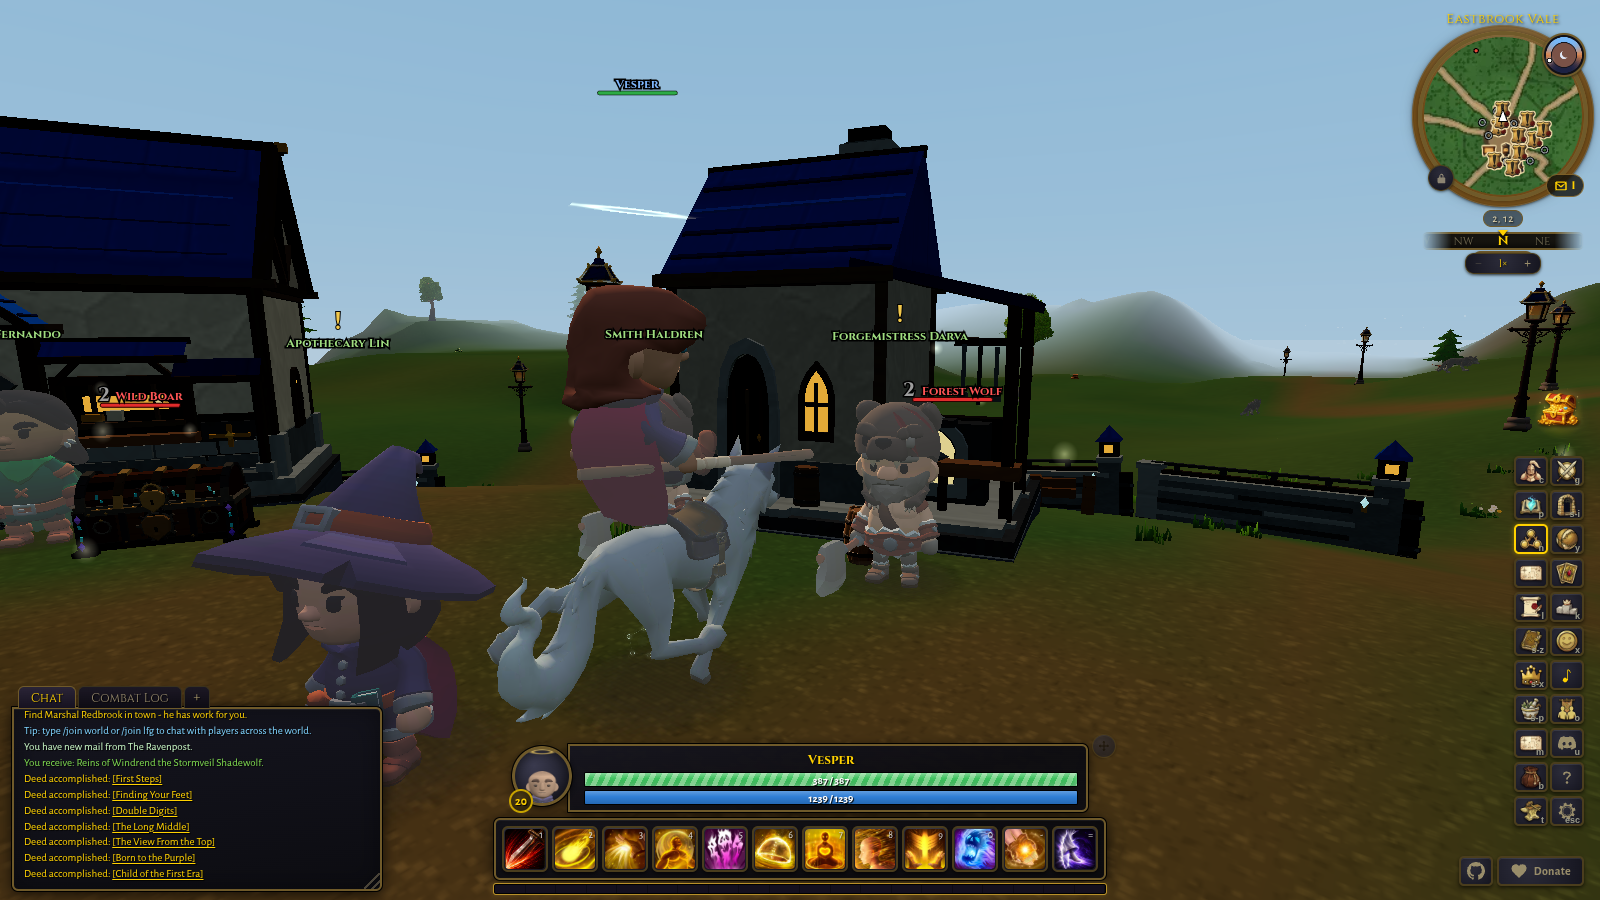
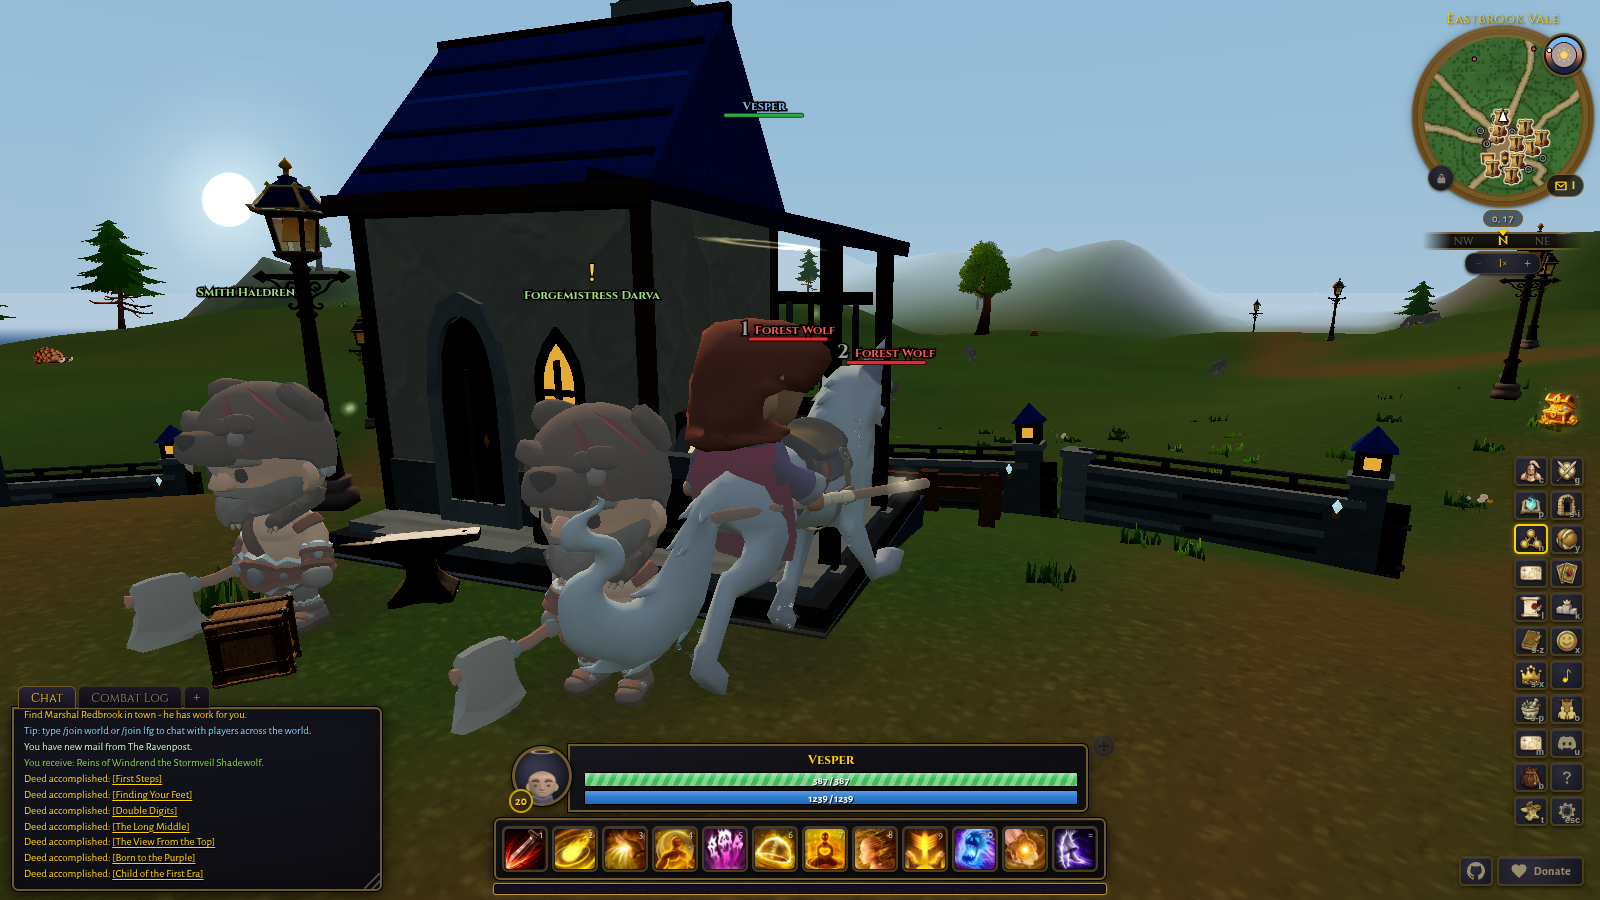
fix(render): size up mounts and fix hound facing plus panther/wolf seats
Ashfang the Cinderhide Hound was still visibly walking sideways after the
earlier facing fix: the yaw copied from the Veil-Wraith Courser assumed a
flat-180 rig, but the hound's raw mesh faces along X like the Nightprowl
Panther, not Z. Corrected the yaw to -PI/2 and gave the gait baker the same
bodyAxis: 'x' override the panther already needed, then rebaked the GLB and
added a regression test pinning the front-left foot's walk-cycle displacement
as X-dominant.

Nightprowl Panther and Windrend Shadewolf riders were floating clear of their
saddles. Re-measured each rig's own spine-bone world position (calibrated
against the boar's already-correct seat margin) and walked the seat height
down further where the spine-bone estimate still floated on live capture,
re-verifying each step against a close low side-on screenshot rather than the
math alone.

All five mounts also get a flat +20% model height increase per user request;
every seat/seatFwd offset is scaled by the same factor so the just-fixed
saddle positions hold at the new size. Recaptured all 25 PR screenshots at
the new scale and fixes.

diff --git a/src/render/mount_visuals.ts b/src/render/mount_visuals.ts
@@ -111,7 +111,9 @@ export const MOUNT_VISUAL_SPECS: Record<MountKey, MountVisualSpec> = {
   // Run clips from its own Walk animation (see manifest.ts). 'wisp': its coat
   // shifting between holy radiance and shadow mist is otherwise flavor text
   // with nothing behind it in-world, so it earns the ambient particle trail.
-  veil_wraith_courser: spec('mount_veil_wraith_courser', 2.6, true, undefined, 0.1, 'wisp'),
+  // seat/seatFwd scaled x1.2 with the +20% model size bump (manifest.ts
+  // height 3.9 -> 4.68) so the saddle position holds at the new scale.
+  veil_wraith_courser: spec('mount_veil_wraith_courser', 3.12, true, undefined, 0.12, 'wisp'),
   // Grimtusk the Ironhide Boar: a stocky, low-slung quadruped, so the seat
   // sits well under the taller mounts above. Its actual saddle prop rides the
   // back over the haunches, well behind the model origin (the boar's head and
@@ -127,14 +129,18 @@ export const MOUNT_VISUAL_SPECS: Record<MountKey, MountVisualSpec> = {
   // (buckle line under the seat, tail and hind legs still visible behind).
   // 'dust': a heavy charging boar kicks up hoof dust the way the snail leaves
   // slime and the hover cycle streams exhaust.
-  grimtusk_boar: spec('mount_grimtusk_boar', 1.9, true, undefined, -0.85, 'dust'),
+  // seat/seatFwd scaled x1.2 with the +20% model size bump (manifest.ts
+  // height 2.6 -> 3.12) so the saddle position holds at the new scale.
+  grimtusk_boar: spec('mount_grimtusk_boar', 2.28, true, undefined, -1.02, 'dust'),
   // Ashfang the Cinderhide Hound: a warlock-flavored demonic war-mount (see
   // content/classes.ts, the Cinderhide ability), taller-standing than the
   // boar with the harness/tack riding centered over its shoulders rather
   // than set far back. 'ember': its obsidian hide is fractured with glowing
   // cracks of cooling slag, so it trails rising embers the way the boar
   // kicks up ground dust and the courser streams holy/shadow wisps.
-  cinderhide_hound: spec('mount_cinderhide_hound', 2.35, true, undefined, -0.35, 'ember'),
+  // seat/seatFwd scaled x1.2 with the +20% model size bump (manifest.ts
+  // height 3.1 -> 3.72) so the saddle position holds at the new scale.
+  cinderhide_hound: spec('mount_cinderhide_hound', 2.82, true, undefined, -0.42, 'ember'),
   // Nightprowl the Duskveil Panther: a rogue-flavored shadow panther (see
   // content/classes.ts, the Smokestep ability that grants Duskveil stealth),
   // lower-slung and lither than the hound, with a real 3D saddle prop (not
@@ -142,7 +148,15 @@ export const MOUNT_VISUAL_SPECS: Record<MountKey, MountVisualSpec> = {
   // sits over the shoulders. 'shade': it trails wisps of the same shadow it
   // melts into on Smokestep, the way the hound trails embers off its cracked
   // hide and the courser streams holy/shadow wisps off its coat.
-  nightprowl_panther: spec('mount_nightprowl_panther', 2.0, true, undefined, -0.3, 'shade'),
+  // seat was 2.0, well above the actual spine/back height (measured off the
+  // live rig's own spine-bone world position, calibrated against the boar's
+  // already-confirmed seat margin above its own spine bone): the rider
+  // floated visibly clear of the saddle. 1.59 (at the old 2.3 model height)
+  // landed the rider on the back, confirmed with a close low side-on capture
+  // matching the boar's own reference framing, not assumed from the math
+  // alone. Scaled to 1.908 with the +20% model size bump (manifest.ts height
+  // 2.3 -> 2.76) so that fix holds at the new scale.
+  nightprowl_panther: spec('mount_nightprowl_panther', 1.908, true, undefined, -0.36, 'shade'),
   // Windrend the Stormveil Shadewolf: a shaman-flavored spectral wolf (see
   // content/classes.ts, the ghost_wolf ability, in-game name "Shadewolf"),
   // leggier and more upright than the panther's low prowl, saddle riding
@@ -151,12 +165,21 @@ export const MOUNT_VISUAL_SPECS: Record<MountKey, MountVisualSpec> = {
   // pinned, absolute camera angles, not a screenshot read alone). 'frost':
   // its translucent hide sheds a cold spectral mist that spreads outward as
   // it drifts, distinct from every other mount's ambient trail.
+  // seat was 2.15, well clear of the actual back height (same live spine-bone
+  // measurement + close low side-on re-verification as the panther above).
+  // The spine-bone-derived first guess (1.58) still floated visibly on a
+  // live capture; the wolf's back sits lower relative to its spine bones
+  // than the boar's calibration predicted, so it was walked down further and
+  // re-verified against the same close low side-on framing until the rider's
+  // legs actually overlapped the saddle: 1.22 (at the old 2.4 model height).
+  // Scaled to 1.464 with the +20% model size bump (manifest.ts height
+  // 2.4 -> 2.88) so that fix holds at the new scale.
   windrend_stormveil_shadewolf: spec(
     'mount_windrend_stormveil_shadewolf',
-    2.15,
+    1.464,
     true,
     undefined,
-    -0.15,
+    -0.18,
     'frost',
   ),
 };

diff --git a/tests/cinderhide_hound_gait.test.ts b/tests/cinderhide_hound_gait.test.ts
@@ -1,0 +1,111 @@
+// Regression pin: the Cinderhide Hound's yaw: Math.PI facing fix (copied from
+// the Veil-Wraith Courser's genuinely flat-180 rig) was itself the bug. A
+// live orientation check (mount_visuals.test.ts's yaw pin covers that half)
+// found the hound's raw mesh faces along X, not Z, exactly like the Nightprowl
+// Panther: scripts/bake_mount_gaits.mjs needs bodyAxis: 'x' for this rig too,
+// or the leg-swing math (which rotates about world X, the axis that moves a
+// Z-forward foot fore-aft but only ever moves an X-forward foot sideways)
+// swings the legs left-right instead of forward-back. Verified directly off
+// the baked animation data (not a screenshot), the same method
+// nightprowl_panther_gait.test.ts uses: the front-left foot's displacement
+// across the Walk cycle must be dominant on X, matching the rig's own real
+// fore-aft axis.
+import { NodeIO } from '@gltf-transform/core';
+import { ALL_EXTENSIONS } from '@gltf-transform/extensions';
+import { MeshoptDecoder } from 'meshoptimizer';
+import { describe, expect, it } from 'vitest';
+
+const qmul = (a: number[], b: number[]): number[] => [
+  a[3] * b[0] + a[0] * b[3] + a[1] * b[2] - a[2] * b[1],
+  a[3] * b[1] - a[0] * b[2] + a[1] * b[3] + a[2] * b[0],
+  a[3] * b[2] + a[0] * b[1] - a[1] * b[0] + a[2] * b[3],
+  a[3] * b[3] - a[0] * b[0] - a[1] * b[1] - a[2] * b[2],
+];
+const rotv = (q: number[], v: number[]): number[] => {
+  const [x, y, z, w] = q;
+  const uvx = y * v[2] - z * v[1];
+  const uvy = z * v[0] - x * v[2];
+  const uvz = x * v[1] - y * v[0];
+  const uuvx = y * uvz - z * uvy;
+  const uuvy = z * uvx - x * uvz;
+  const uuvz = x * uvy - y * uvx;
+  return [v[0] + 2 * (w * uvx + uuvx), v[1] + 2 * (w * uvy + uuvy), v[2] + 2 * (w * uvz + uuvz)];
+};
+
+describe('cinderhide_hound gait direction (facing-fix follow-up)', () => {
+  it('swings the front-left foot fore-aft along X, not sideways along Z', async () => {
+    await MeshoptDecoder.ready;
+    const io = new NodeIO()
+      .registerExtensions(ALL_EXTENSIONS)
+      .registerDependencies({ 'meshopt.decoder': MeshoptDecoder });
+    const doc = await io.read('public/models/mounts/cinderhide_hound.glb');
+    const root = doc.getRoot();
+    const nodes = new Map(root.listNodes().map((n) => [n.getName(), n] as const));
+    const parentOf = new Map<
+      ReturnType<typeof root.listNodes>[number],
+      ReturnType<typeof root.listNodes>[number]
+    >();
+    for (const n of root.listNodes()) for (const c of n.listChildren()) parentOf.set(c, n);
+
+    const worldRotAt = (
+      node: ReturnType<typeof root.listNodes>[number],
+      overrideRot?: number[],
+    ) => {
+      let q = [0, 0, 0, 1];
+      for (let n: typeof node | undefined = node; n; n = parentOf.get(n)) {
+        const r = n === node && overrideRot ? overrideRot : [...n.getRotation()];
+        q = qmul(r, q);
+      }
+      return q;
+    };
+    const worldPos = (node: ReturnType<typeof root.listNodes>[number]): number[] => {
+      const t = [...node.getTranslation()];
+      const parent = parentOf.get(node);
+      if (!parent) return t;
+      const pp = worldPos(parent);
+      const r = rotv(worldRotAt(parent), t);
+      return [pp[0] + r[0], pp[1] + r[1], pp[2] + r[2]];
+    };
+
+    const bone = nodes.get('tripo::0_Left_Limb_0');
+    expect(bone, 'front-left upper leg bone').toBeDefined();
+    if (!bone) return;
+    const restWorldRot = worldRotAt(bone);
+    const footLocalOffset = rotv(
+      [-restWorldRot[0], -restWorldRot[1], -restWorldRot[2], restWorldRot[3]],
+      [0, -0.15, 0],
+    );
+    const footWorldAt = (animatedLocalRot: number[]) => {
+      const wr = worldRotAt(bone, animatedLocalRot);
+      const off = rotv(wr, footLocalOffset);
+      const p = worldPos(bone);
+      return [p[0] + off[0], p[1] + off[1], p[2] + off[2]];
+    };
+
+    const anim = root.listAnimations().find((a) => a.getName() === 'Walk');
+    expect(anim, 'Walk animation').toBeDefined();
+    const channel = anim
+      ?.listChannels()
+      .find((c) => c.getTargetNode() === bone && c.getTargetPath() === 'rotation');
+    expect(channel, 'front-left leg rotation channel').toBeDefined();
+    const sampler = channel?.getSampler();
+    const times = sampler?.getInput()?.getArray();
+    const rots = sampler?.getOutput()?.getArray();
+    expect(times && rots).toBeTruthy();
+    if (!times || !rots) return;
+    const n = times.length;
+    const getRot = (i: number) => [rots[i * 4], rots[i * 4 + 1], rots[i * 4 + 2], rots[i * 4 + 3]];
+
+    const p0 = footWorldAt(getRot(0));
+    const p1 = footWorldAt(getRot(Math.floor(n / 4)));
+    const d = [p1[0] - p0[0], p1[1] - p0[1], p1[2] - p0[2]];
+
+    expect(Math.abs(d[0]), "X displacement (fore-aft, the rig's real long axis)").toBeGreaterThan(
+      0.02,
+    );
+    expect(
+      Math.abs(d[0]),
+      'X displacement must dominate Z (a sideways swing is the bug this pins)',
+    ).toBeGreaterThan(Math.abs(d[2]) * 3);
+  });
+});

diff --git a/src/render/characters/manifest.ts b/src/render/characters/manifest.ts
@@ -1707,7 +1707,10 @@ export const VISUALS: Record<string, VisualDef> = {
   // mount stands still instead of visibly walking in place.
   mount_veil_wraith_courser: {
     url: `${MOUNTS_DIR}/veil_wraith_courser.glb`,
-    height: 3.9,
+    // Sized up +20% (was 3.9) with the rest of the PR #3365 catalog: read as
+    // visually undersized next to the player at the old height. mount_visuals.ts
+    // seat/seatFwd scale by the same factor so the saddle position holds.
+    height: 4.68,
     clips: MOUNT_RIGGED,
     // The baked rig rests facing -z, unlike every other mount's native +z
     // (see the fwd: 'z-' override in scripts/render_mount_icons.mjs); yaw
@@ -1739,7 +1742,9 @@ export const VISUALS: Record<string, VisualDef> = {
   // foot-slide as the tradeoff, which reads right for a lumbering charge.
   mount_grimtusk_boar: {
     url: `${MOUNTS_DIR}/grimtusk_boar.glb`,
-    height: 2.6,
+    // Sized up +20% (was 2.6) with the rest of the catalog; mount_visuals.ts
+    // seat/seatFwd scale by the same factor so the saddle position holds.
+    height: 3.12,
     clips: MOUNT_RIGGED_JUMP,
     walkRef: 3.0,
     runRef: 12.6,
@@ -1751,17 +1756,27 @@ export const VISUALS: Record<string, VisualDef> = {
   // runRef is the ridden speed (RUN_SPEED 7 x +80% = 12.6), same choice as
   // the boar and raptor above, so its authored Run cadence plays at 1.0x
   // instead of being sped up to match a perfect foot-plant.
-  // The baked rig rests facing -z, same as the Veil-Wraith Courser above
-  // (see the fwd: 'z-' override in scripts/render_mount_icons.mjs); without
-  // this yaw the hound faced away from the rider and away from the travel
-  // direction, an artifact of the raw Tripo retarget carried over unfixed.
-  // yaw swings it onto the game's +z-forward convention so it walks and
-  // faces the same way as its rider.
+  // yaw was Math.PI (a flat 180, copied from the Courser's fix) until a live
+  // orientation check (comparing the model wrap's actual world-space forward
+  // vector against the real movement delta while running, not a screenshot)
+  // showed it pointing dead OPPOSITE the travel direction: dot product -1.
+  // Math.PI only ever corrects a Z-forward rig's 180-degree flip, but this
+  // rig's own bind pose puts its head at +X from the rear legs with an
+  // essentially zero Z offset (measured the same way the panther's own
+  // bodyAxis finding was), the SAME non-standard axis the panther has, not a
+  // flat-180 case at all. -Math.PI / 2 swings local +X onto the game's
+  // +z-forward convention (the same correction the panther uses, and
+  // verified against the same live orientation check: dot product +1 after
+  // the fix). scripts/bake_mount_gaits.mjs also needs bodyAxis: 'x' for this
+  // rig now, so the Walk/Run leg swing moves fore-aft instead of sideways;
+  // the GLB was re-baked in the same change.
   mount_cinderhide_hound: {
     url: `${MOUNTS_DIR}/cinderhide_hound.glb`,
-    height: 3.1,
+    // Sized up +20% (was 3.1) with the rest of the catalog; mount_visuals.ts
+    // seat/seatFwd scale by the same factor so the saddle position holds.
+    height: 3.72,
     clips: MOUNT_RIGGED_JUMP,
-    yaw: Math.PI,
+    yaw: -Math.PI / 2,
     walkRef: 3.0,
     runRef: 12.6,
     lazyPreload: true,
@@ -1789,7 +1804,9 @@ export const VISUALS: Record<string, VisualDef> = {
   // of travel.
   mount_nightprowl_panther: {
     url: `${MOUNTS_DIR}/nightprowl_panther.glb`,
-    height: 2.3,
+    // Sized up +20% (was 2.3) with the rest of the catalog; mount_visuals.ts
+    // seat/seatFwd scale by the same factor so the saddle position holds.
+    height: 2.76,
     clips: MOUNT_RIGGED_JUMP,
     yaw: -Math.PI / 2,
     walkRef: 3.0,
@@ -1811,7 +1828,9 @@ export const VISUALS: Record<string, VisualDef> = {
   // phase-delayed-tip ripple, the trick the hound introduced).
   mount_windrend_stormveil_shadewolf: {
     url: `${MOUNTS_DIR}/windrend_stormveil_shadewolf.glb`,
-    height: 2.4,
+    // Sized up +20% (was 2.4) with the rest of the catalog; mount_visuals.ts
+    // seat/seatFwd scale by the same factor so the saddle position holds.
+    height: 2.88,
     clips: MOUNT_RIGGED_JUMP,
     walkRef: 3.0,
     runRef: 12.6,

diff --git a/tests/mount_visuals.test.ts b/tests/mount_visuals.test.ts
@@ -178,11 +178,14 @@ describe('procedural bob math', () => {
     // front edge, behind the visible leather panel rather than on it
     // (confirmed live in-client with player.facing pinned and an isolated
     // side capture, not a screenshot alone: #3365's known-issue follow-up).
-    // -0.85 centers the rider on the panel.
+    // -0.85 centers the rider on the panel (at the model's original height).
+    // seat/seatFwd both scale x1.2 with the whole catalog's +20% size bump
+    // (manifest.ts height 2.6 -> 3.12), re-verified against a live close
+    // side-on capture at the new scale, not assumed from the ratio alone.
     const spec = MOUNT_VISUAL_SPECS.grimtusk_boar;
-    expect(spec.seat).toBe(1.9);
-    expect(spec.seatFwd).toBeLessThan(-0.65);
-    expect(spec.seatFwd).toBeGreaterThan(-1.05);
+    expect(spec.seat).toBe(2.28);
+    expect(spec.seatFwd).toBeLessThan(-0.78);
+    expect(spec.seatFwd).toBeGreaterThan(-1.26);
   });
 
   it('the snail glides flat while moving, but breathes gently at idle (#jump-idle-pass)', () => {
@@ -215,14 +218,22 @@ describe('procedural bob math', () => {
   });
 
   it('the hound faces the same way as its rider (#facing-fix)', () => {
-    // Regression pin: the cinderhide_hound.glb rig rests facing -z, the same
-    // Tripo-retarget artifact the veil_wraith_courser rig has (both are
-    // fwd: 'z-' in scripts/render_mount_icons.mjs). The courser's VisualDef
-    // carries yaw: Math.PI to correct onto the game's +z-forward convention;
-    // the hound's shipped without it, so the mount rendered facing away from
-    // its own rider and direction of travel. Pin both the fix and the
-    // contrast: the boar's native rig needs no correction at all.
-    expect(VISUALS.mount_cinderhide_hound.yaw).toBe(Math.PI);
+    // Regression pin, corrected a second time: yaw: Math.PI (a flat 180,
+    // copied from the courser's fix) was itself the bug. A live orientation
+    // check (the model wrap's actual world-space forward vector vs. the real
+    // movement delta while running, not a screenshot) showed dot product -1
+    // at yaw: Math.PI, i.e. facing dead opposite the travel direction. The
+    // cinderhide_hound.glb rig's own bind pose puts its head at +X from the
+    // rear legs with an essentially zero Z offset (measured the same way the
+    // panther's own bodyAxis finding was), the SAME non-standard axis the
+    // panther has, not the courser's flat-180 case at all. -Math.PI / 2 is
+    // the correction (swings local +X onto the game's +z-forward
+    // convention, the same sign the panther uses), re-verified with the same
+    // live orientation check: dot product +1 after the fix. The courser's
+    // own rig genuinely IS the flat-180 case, so it keeps Math.PI; the
+    // boar's native rig needs no correction at all.
+    expect(VISUALS.mount_cinderhide_hound.yaw).toBe(-Math.PI / 2);
+    expect(VISUALS.mount_nightprowl_panther.yaw).toBe(-Math.PI / 2);
     expect(VISUALS.mount_veil_wraith_courser.yaw).toBe(Math.PI);
     expect(VISUALS.mount_grimtusk_boar.yaw ?? 0).toBe(0);
   });

diff --git a/src/render/assets/manifest.generated.ts b/src/render/assets/manifest.generated.ts
@@ -812,7 +812,7 @@ export const MEDIA_ASSETS: Record<string, string> =
   "models/medieval_village_v2/buildings/CastleStairs_03.glb": "/media/models/medieval_village_v2/buildings/CastleStairs_03.1dd5b842c0df.glb",
   "models/medieval_village_v2/buildings/Stairs_01.glb": "/media/models/medieval_village_v2/buildings/Stairs_01.df7c17997160.glb",
   "models/mounts/aether_hover_cycle.glb": "/media/models/mounts/aether_hover_cycle.10935b02e1d8.glb",
-  "models/mounts/cinderhide_hound.glb": "/media/models/mounts/cinderhide_hound.8ca09e603be7.glb",
+  "models/mounts/cinderhide_hound.glb": "/media/models/mounts/cinderhide_hound.ca7726264ff8.glb",
   "models/mounts/drakemaw_raptor.glb": "/media/models/mounts/drakemaw_raptor.340adf85dc29.glb",
   "models/mounts/grag_bear.glb": "/media/models/mounts/grag_bear.0a5aa7a2b9d3.glb",
   "models/mounts/grimtusk_boar.glb": "/media/models/mounts/grimtusk_boar.3a049022f7a2.glb",
